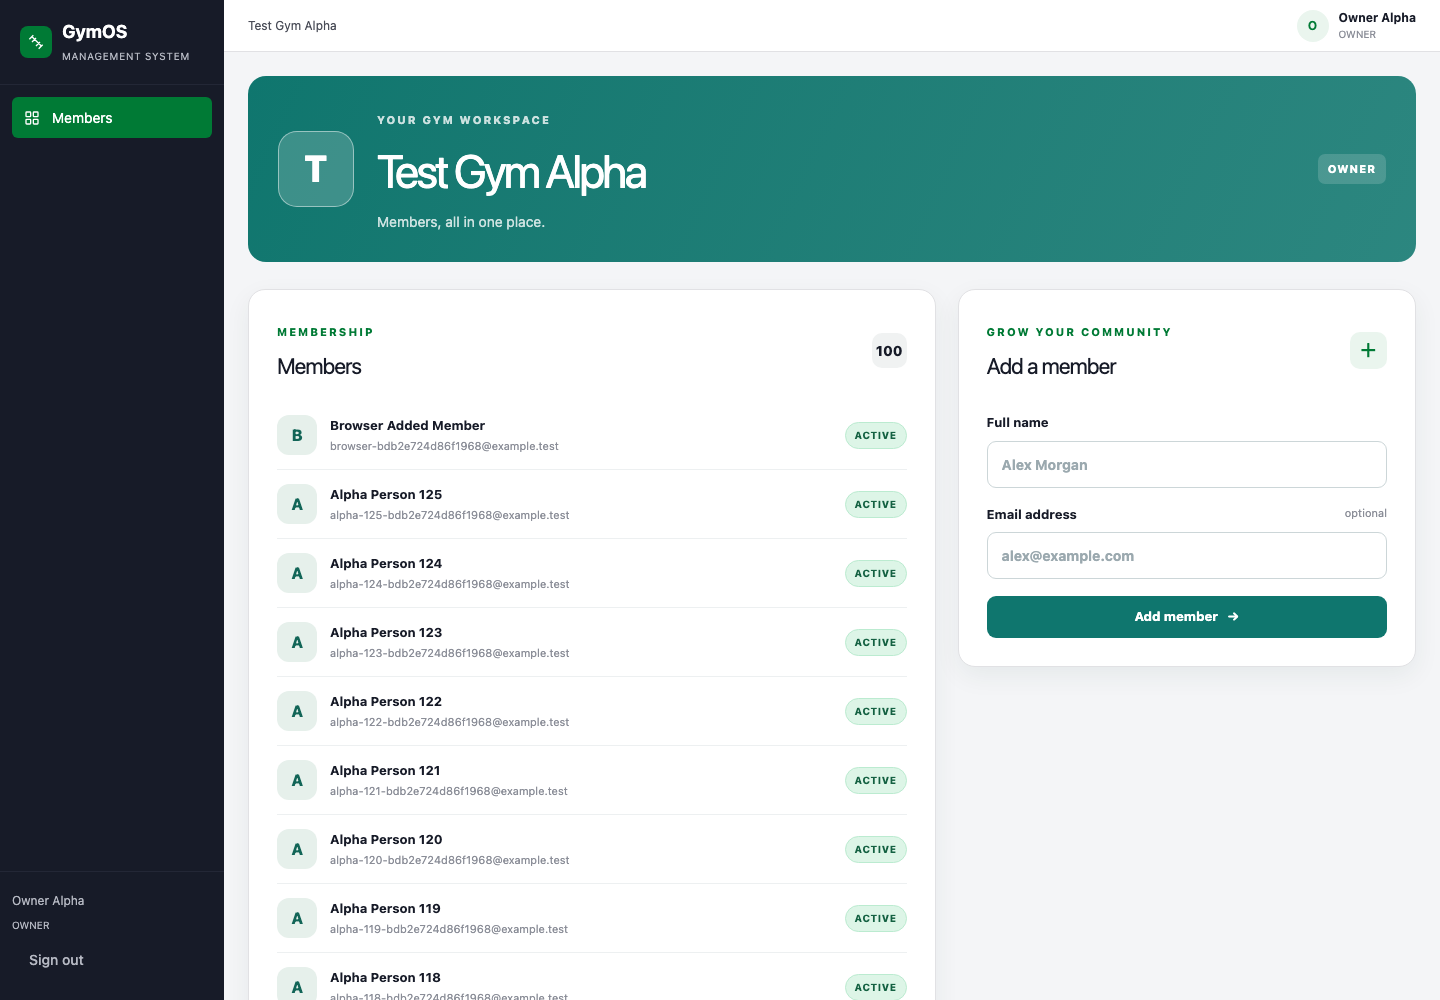
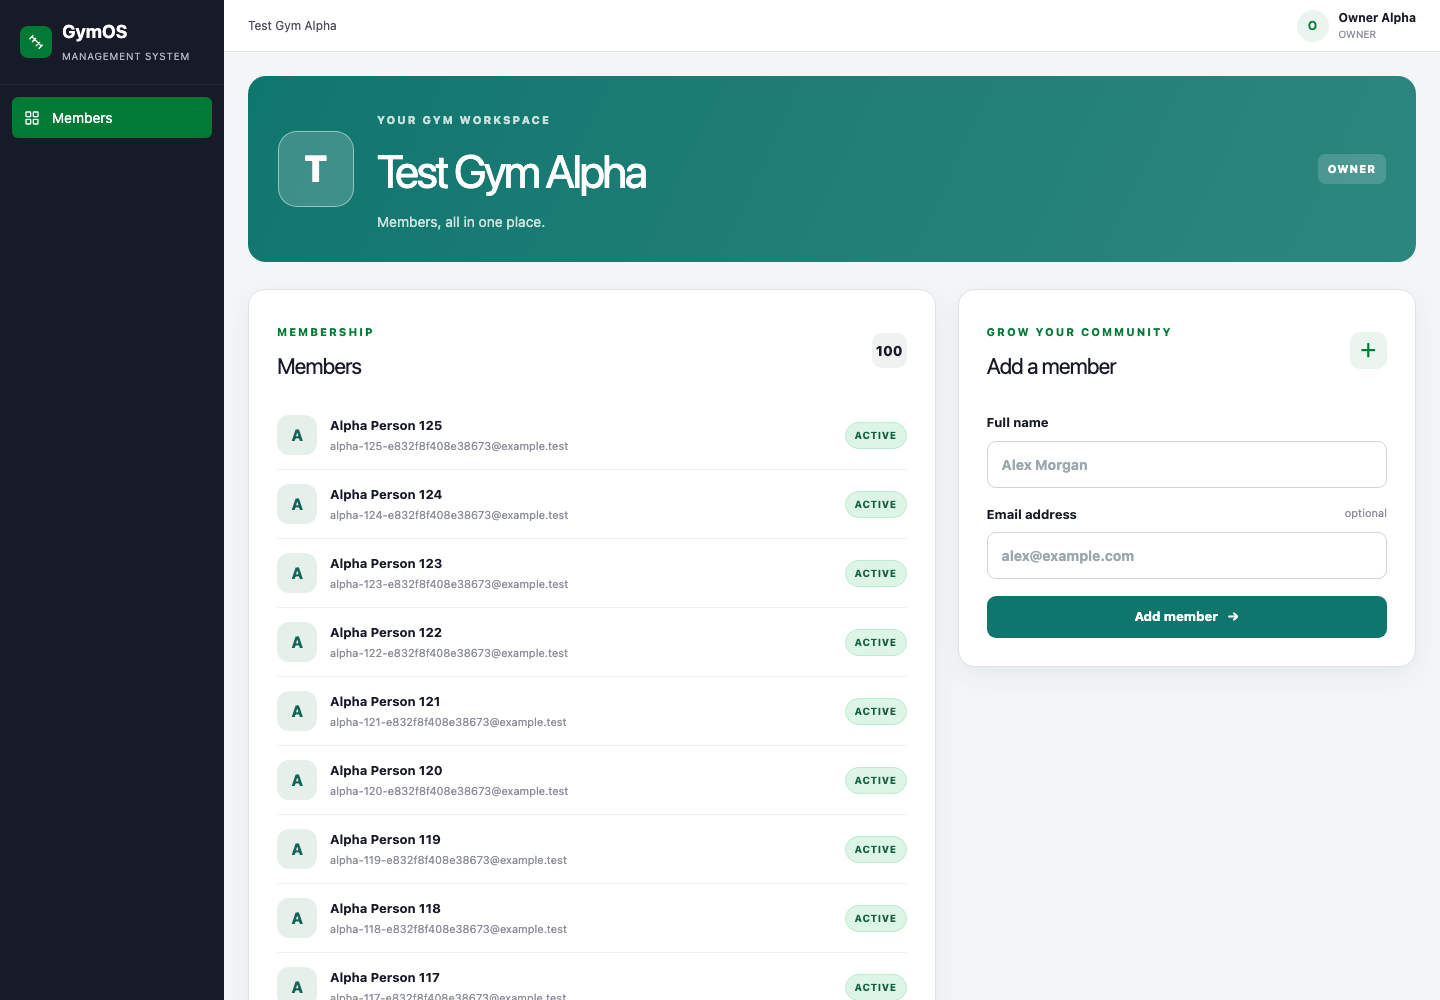
Preserve server not-found responses during session validation

diff --git a/apps/web/tests/two-gym.e2e.spec.ts b/apps/web/tests/two-gym.e2e.spec.ts
@@ -426,6 +426,7 @@ test('role shell supports keyboard drawer, safe switching and current context', 
     await fixture.master.gymAccess.update({ where: { userId_gymId: { userId: access.userId, gymId: access.gymId } }, data: { linkStatus: 'REVOKED', version: { increment: 1 } } });
     await page.getByRole('link', { name: /Test Gym Alpha/ }).click();
     await expect(page.getByRole('heading', { name: 'This page could not be found' })).toBeVisible();
+    await expect(page).toHaveURL(new RegExp(`/gyms/${fixture.gyms[0].slug}/owner$`));
     await page.getByRole('link', { name: 'Return to Dashboard' }).click();
     await expect(page.getByRole('heading', { name: 'Test Gym Beta', exact: true })).toBeVisible();
   } finally {
@@ -459,9 +460,13 @@ test('web sessions enforce cookie, origin, expiry, revocation and logout boundar
   await expect(otherTab.locator('.shell-profile')).toContainText('Owner Beta');
   // A focus-triggered 401 during logout must not abort delivery of the
   // Server Action's cookie deletion response.
-  await page.route('**/api/session', route => route.fulfill({ status: 401 }));
+  let logoutStarted = false;
+  await page.route('**/api/session', route => logoutStarted ? route.fulfill({ status: 401 }) : route.continue());
   await page.route(`**/gyms/${fixture.gyms[1].slug}/owner`, async route => {
-    if (route.request().method() === 'POST') await page.evaluate(() => window.dispatchEvent(new Event('focus')));
+    if (route.request().method() === 'POST') {
+      logoutStarted = true;
+      await page.evaluate(() => window.dispatchEvent(new Event('focus')));
+    }
     await route.continue();
   });
   await page.getByRole('button', { name: 'Sign out', exact: true }).click();

diff --git a/apps/web/src/components/navigation/session-lifecycle.tsx b/apps/web/src/components/navigation/session-lifecycle.tsx
@@ -31,7 +31,10 @@ export function SessionLifecycle() {
         if ((expectedIdentity && expectedIdentity !== session.identityId) || (identity && identity !== session.identityId)) return leave('/');
         identity = session.identityId;
         const parts = pathname.split('/');
-        if (parts[1] === 'gyms' && parts[2] !== 'select' && !session.gyms.some(gym => gym.slug === parts[2] && (!parts[3] || gym.role.toLowerCase() === parts[3]))) return leave('/');
+        // Only a rendered authorized shell needs live gym invalidation. Leave
+        // server not-found/error responses in place; redirecting them races the
+        // uniform foreign/unknown-gym denial and changes its visible behavior.
+        if (expectedIdentity && parts[1] === 'gyms' && parts[2] !== 'select' && !session.gyms.some(gym => gym.slug === parts[2] && (!parts[3] || gym.role.toLowerCase() === parts[3]))) return leave('/');
         clearTimeout(expiryTimer);
         expiryTimer = setTimeout(() => leave('/login?error=expired'), Math.max(0, session.expiresAt - Date.now()));
       } catch { /* availability cannot grant access or renew a session */ }

diff --git a/apps/web/src/app/globals.css b/apps/web/src/app/globals.css
@@ -259,7 +259,7 @@ a { color: inherit; text-decoration: none; }
 /* V1 Classic chrome: 224px desktop / 256px drawer, 52px header. */
 .application-shell { display: flex; min-height: 100vh; background: var(--classic-page); }
 .shell-sidebar, .shell-drawer-panel { display: flex; flex-direction: column; width: 224px; flex-shrink: 0; background: #171b28; color: #b5b8c2; }
-.shell-sidebar { position: sticky; top: 0; height: 100vh; overflow-y: auto; }
+.shell-sidebar { position: static; min-height: 100vh; overflow-y: auto; }
 .shell-brand { display: flex; align-items: center; gap: 10px; padding: 20px; border-bottom: 1px solid #232736; }
 .shell-brand strong { color: white; font-size: 18px; line-height: 1; }.shell-brand small { display: block; margin-top: 5px; font-size: 10px; text-transform: uppercase; letter-spacing: .07em; }
 .shell-mark { display: grid; place-items: center; width: 32px; height: 32px; border-radius: 8px; color: white; background: var(--classic-primary); font-weight: 800; }

diff --git a/docs/migration/SEGMENT_RUN_ISSUES.md b/docs/migration/SEGMENT_RUN_ISSUES.md
@@ -95,3 +95,9 @@ Evidence: [finalization](SEGMENT_01_FINALIZATION.md), [GYMOS-MIG-008](evidence/G
 | Existing visual tests wrote task 011's historical PNGs. | New shell captures would overwrite old evidence. | Restored original task 011 artifacts and directed new branding captures into task 013. | Resolved |
 
 Local evidence: [013](evidence/GYMOS-MIG-013.md), [020](evidence/GYMOS-MIG-020.md). Hosted gate remains pending at this checkpoint. No V1 code/database was run or modified; no shared/production data used.
+
+### Hosted browser follow-up — 30 October 2026
+
+Run [41021183510](https://github.com/EsanduEpa/gymos-v2/actions/runs/41021183510) passed ten jobs, including identity 10/10 and tenant 20/20, but exposed a real navigation race in the stale-chooser case: the browser session monitor redirected a server not-found response to root before it could be inspected. The monitor now applies live gym invalidation only to a rendered authorized shell; uniform denied/unknown-gym responses remain in place. The original not-found assertion remains, with an added assertion that the denied URL stays canonical. Completion remains pending a passing hosted run.
+
+The final local role/session/logout follow-up passed 3/3. Its synthetic 401 now starts only after the logout POST: focusing the tab before submission must still perform a real valid-session check. Assertions are unchanged. Desktop sidebar scrolling was also aligned with V1's static full-content-height column, rather than introducing sticky positioning.
